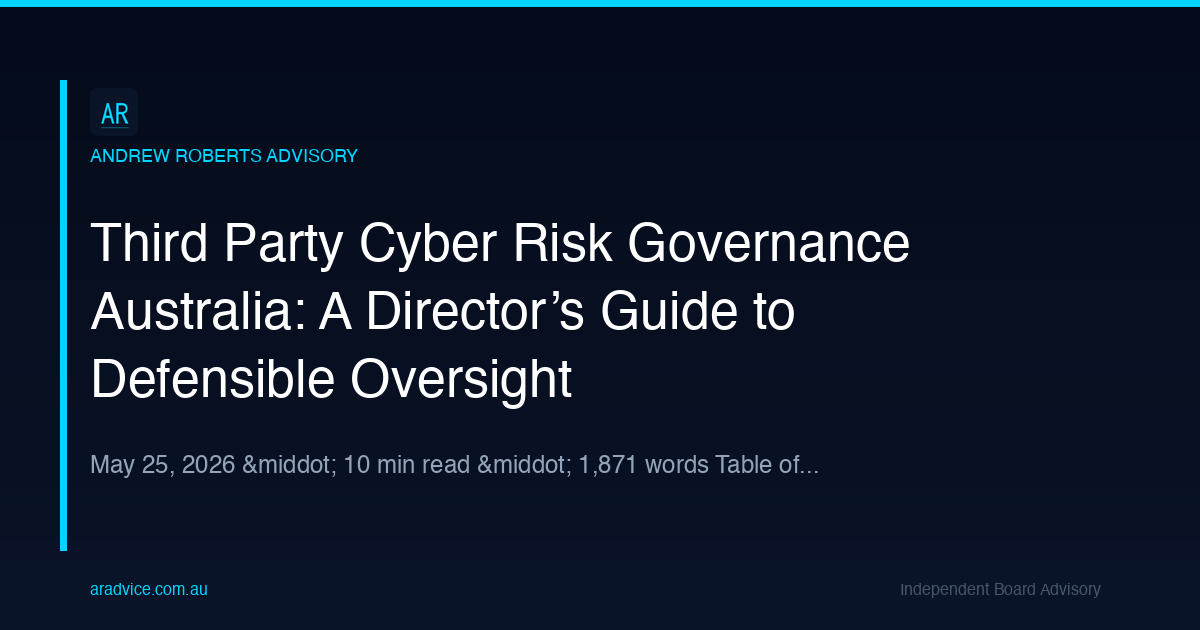
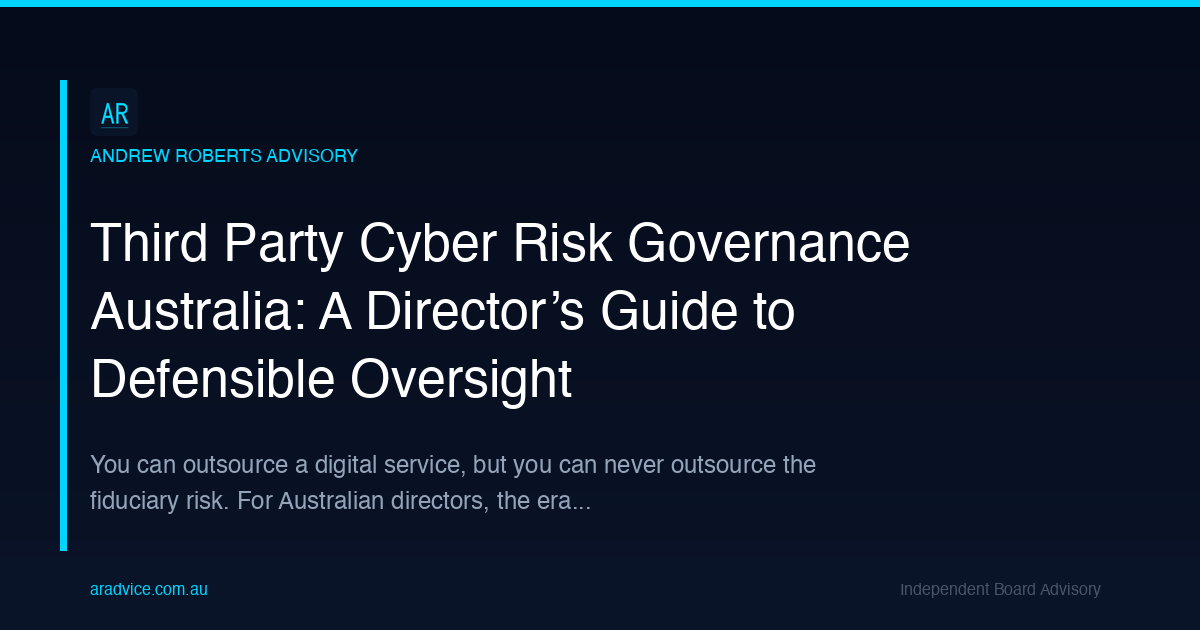
Improve og:image tagline extraction to use article-content div

Changed region(s): [[0.0617, 0.7238, 0.6783, 0.754], [0.0617, 0.7841, 0.4933, 0.8143]]

diff --git a/scripts/sync_blog.py b/scripts/sync_blog.py
@@ -601,14 +601,21 @@ def generate_og_image(item: FeedItem, post_slug: str) -> str:
         draw.text((90, title_y), line, font=font_title, fill="#ffffff")
         title_y += 68
 
-    body_match = re.search(r"<body\b.*?>(.*)</body>", item.html, flags=re.DOTALL | re.IGNORECASE)
-    body_html = body_match.group(1) if body_match else item.html
-    raw = re.sub(r"<[^>]+>", "", body_html[:3000])
+    # Extract text from article-content div specifically
+    content_match = re.search(
+        r'<div[^>]*class=["\'][^"\']*article-content[^"\']*["\'][^>]*>(.*?)</div>\s*</article>',
+        item.html,
+        flags=re.DOTALL | re.IGNORECASE,
+    )
+    if content_match:
+        content_html = content_match.group(1)
+    else:
+        # Fallback: find first <p> tag after the article h1
+        h1_match = re.search(r"</h1>.*?(<p\b.*?</p>)", item.html, flags=re.DOTALL | re.IGNORECASE)
+        content_html = h1_match.group(1) if h1_match else item.html[:2000]
+    raw = re.sub(r"<[^>]+>", "", content_html[:2000])
     raw = re.sub(r"\s+", " ", raw).strip()
-    content_start = raw.find(item.title)
-    if content_start > 0:
-        raw = raw[content_start + len(item.title):]
-    tagline_text = raw.strip()[:120].rsplit(" ", 1)[0] + "..."
+    tagline_text = raw[:120].rsplit(" ", 1)[0] + "..."
     tagline_wrapped = textwrap.wrap(tagline_text, width=72)[:2]
     tagline_y = title_y + 30
     for line in tagline_wrapped:
